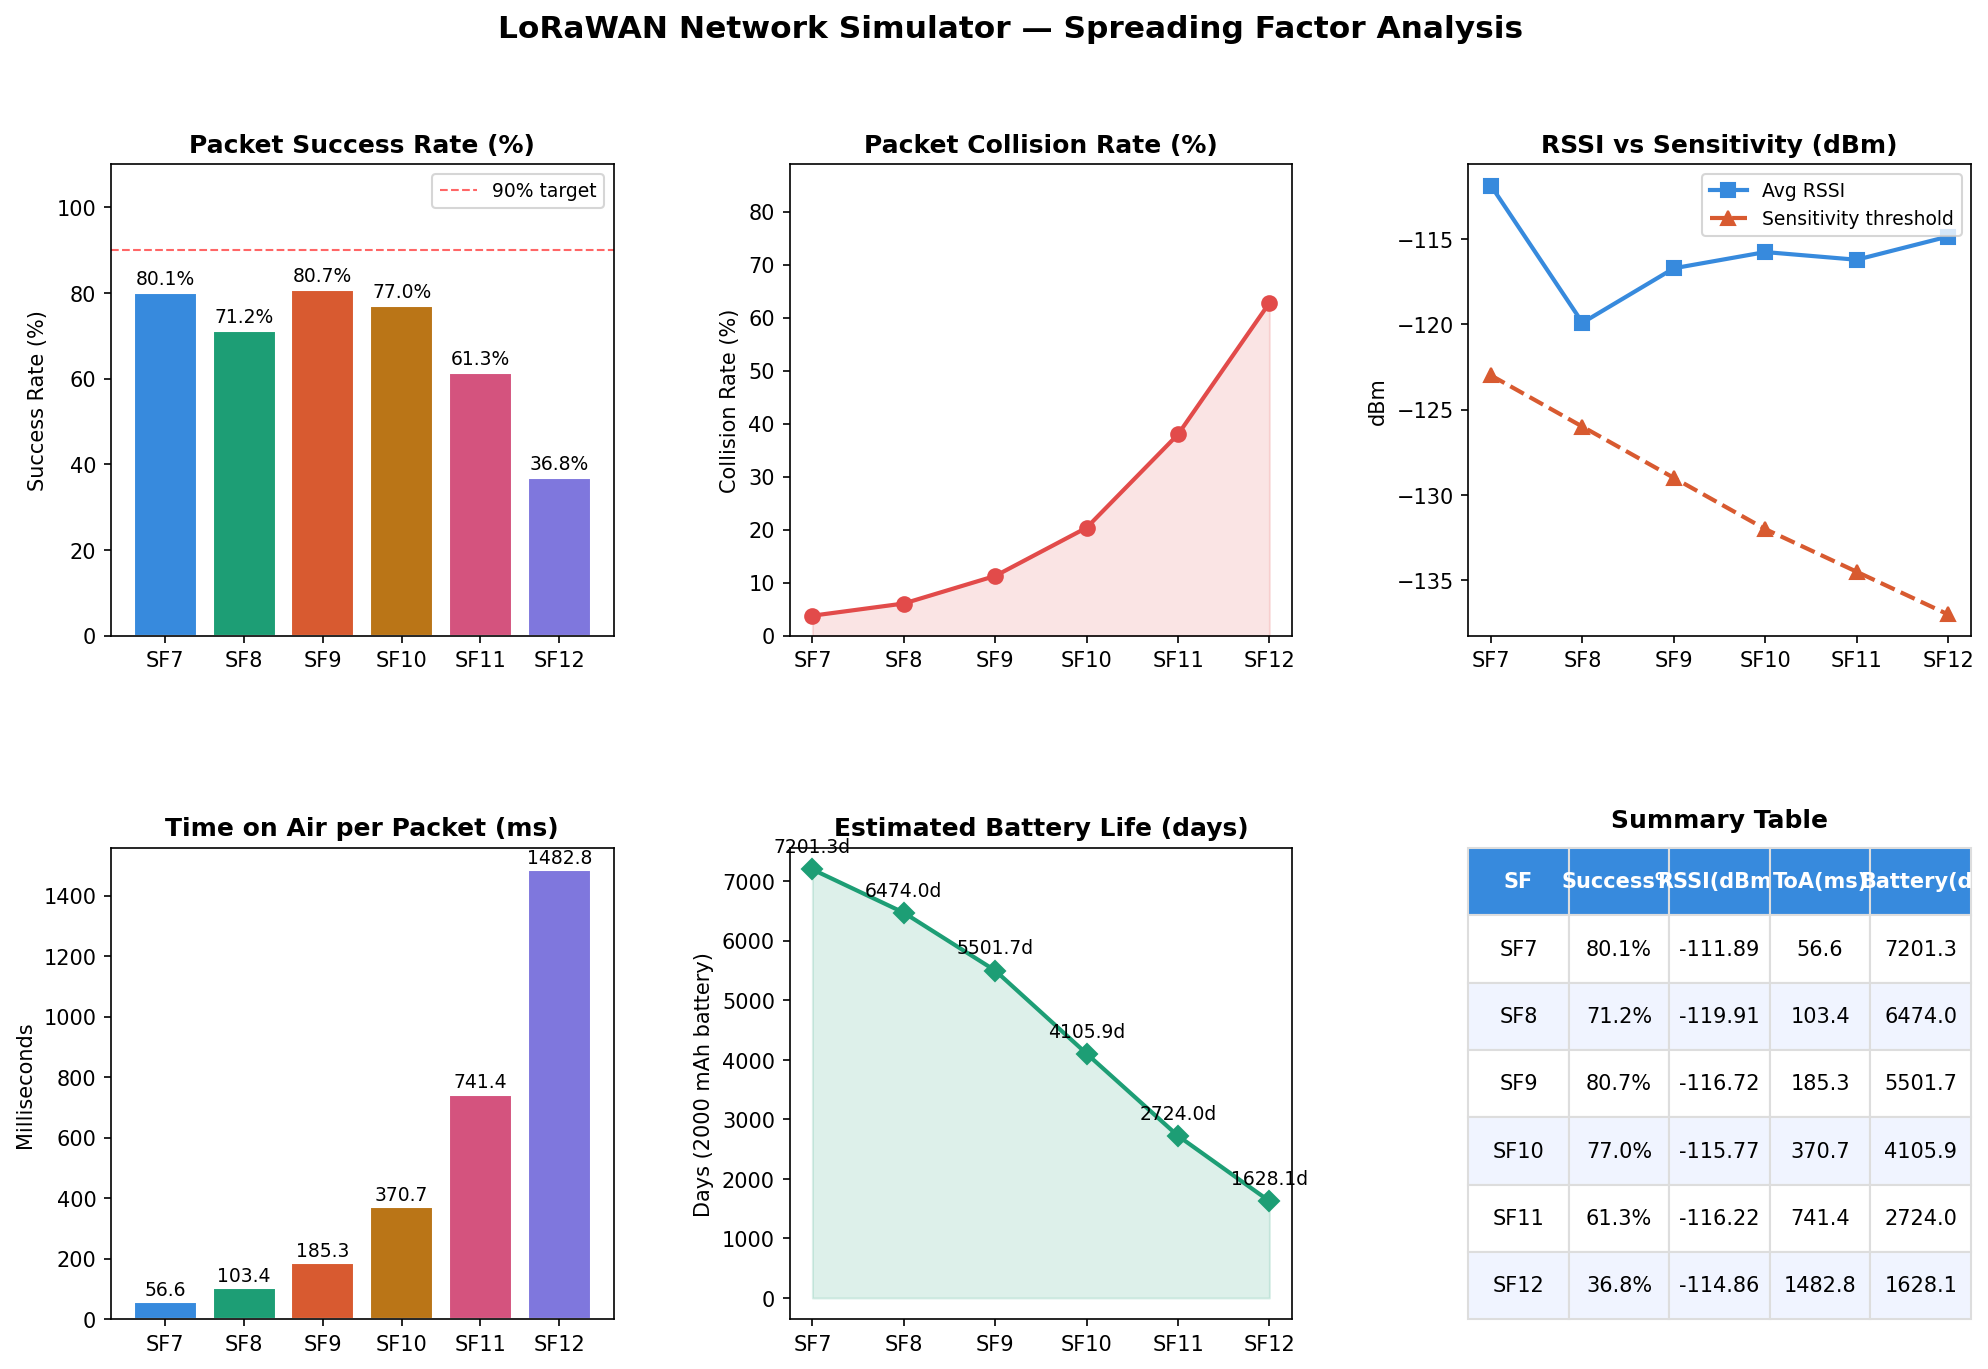
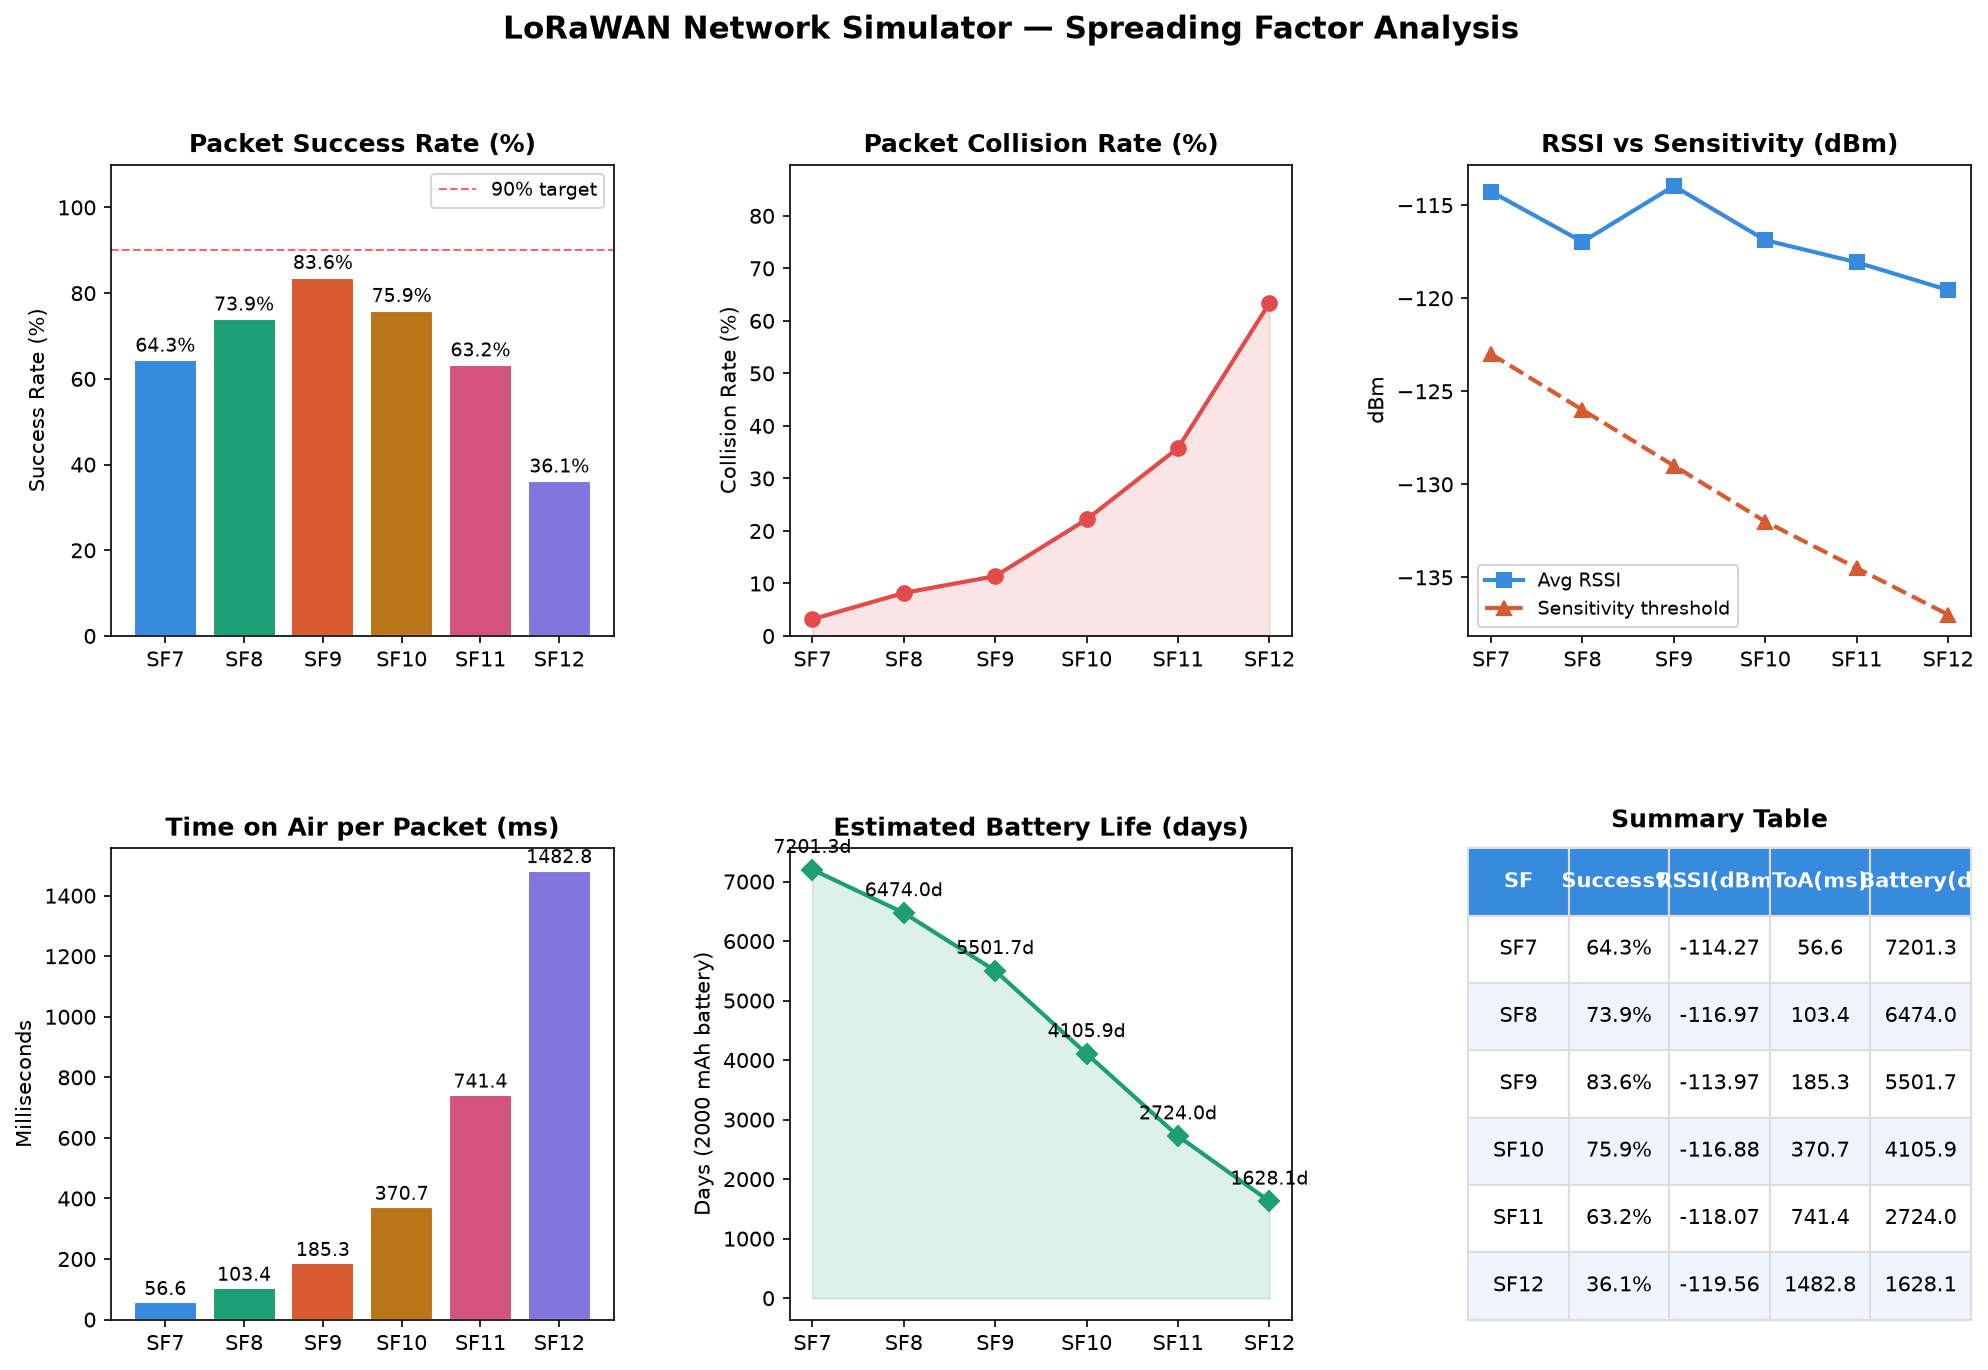
Add Codespaces launch button

diff --git a/README.md b/README.md
@@ -1,3 +1,4 @@
+[![Open in GitHub Codespaces](https://github.com/codespaces/badge.svg)](https://codespaces.new/Aarushhiii/lorawan-network-simulator)
 # 📡 LoRaWAN Network Simulator
 
 A Python-based simulator for LoRaWAN networks that models the effects of **Spreading Factor (SF)** on packet success rate, signal strength, battery life, and packet collisions.
